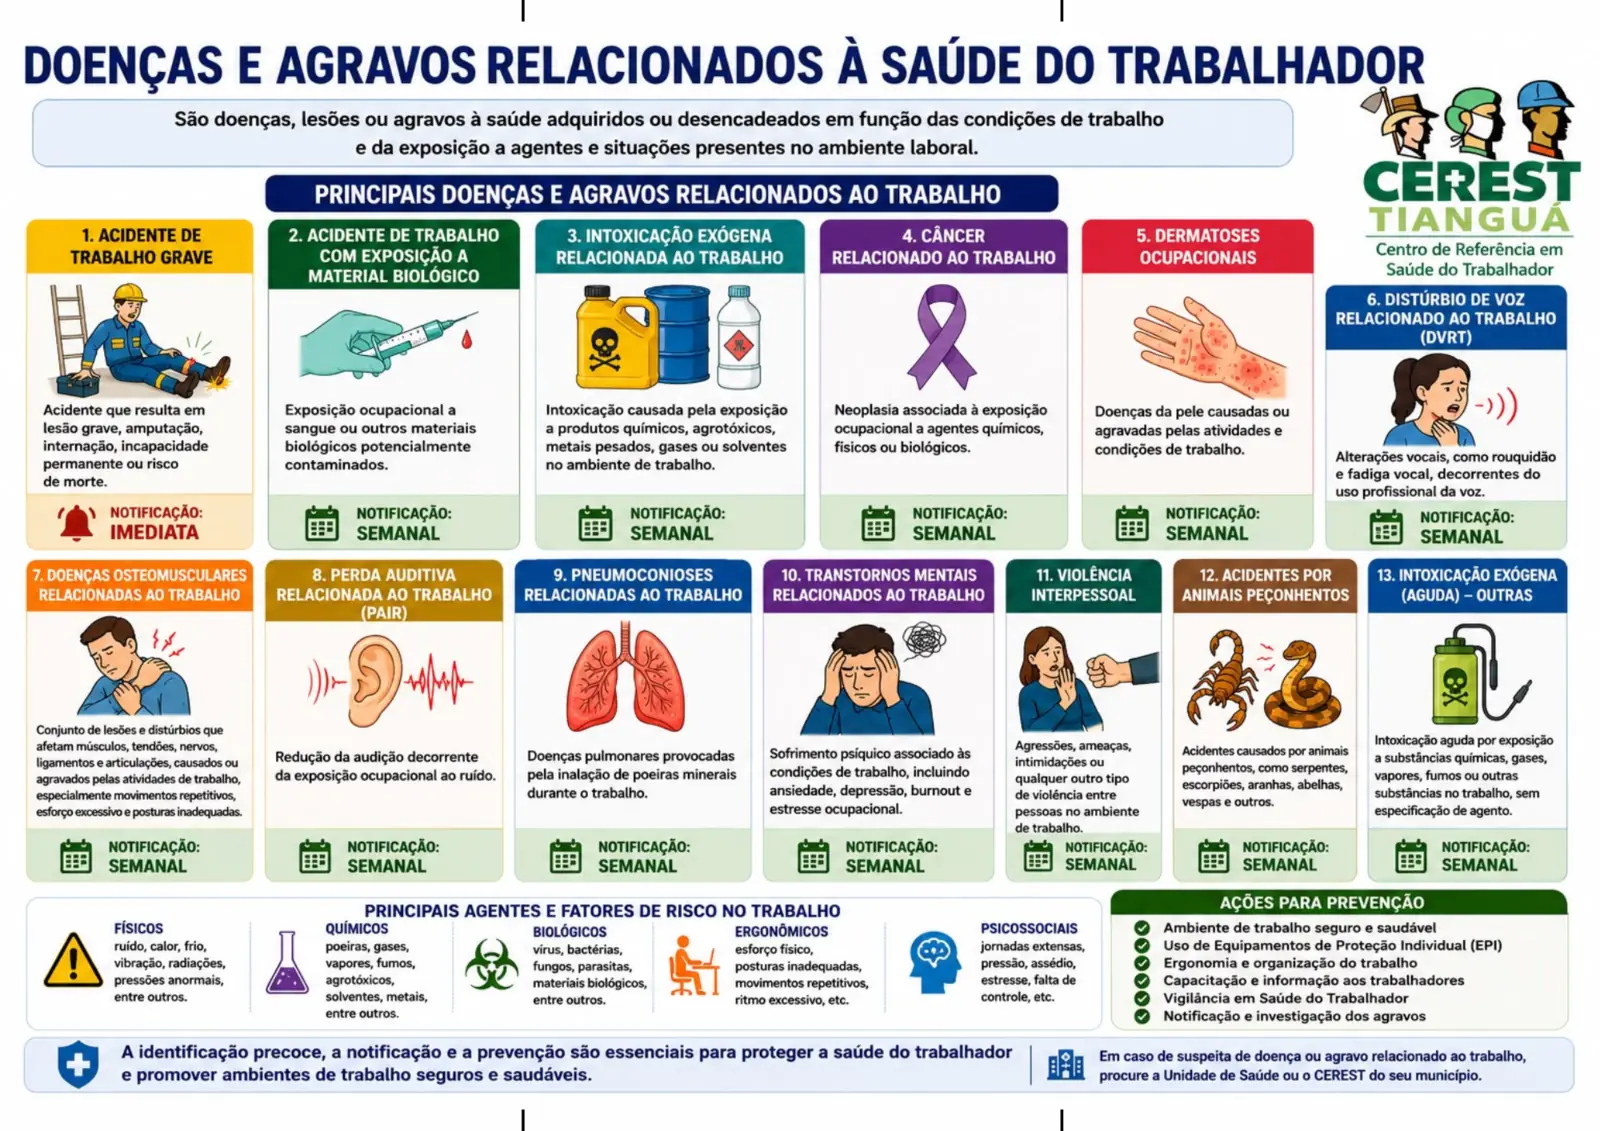
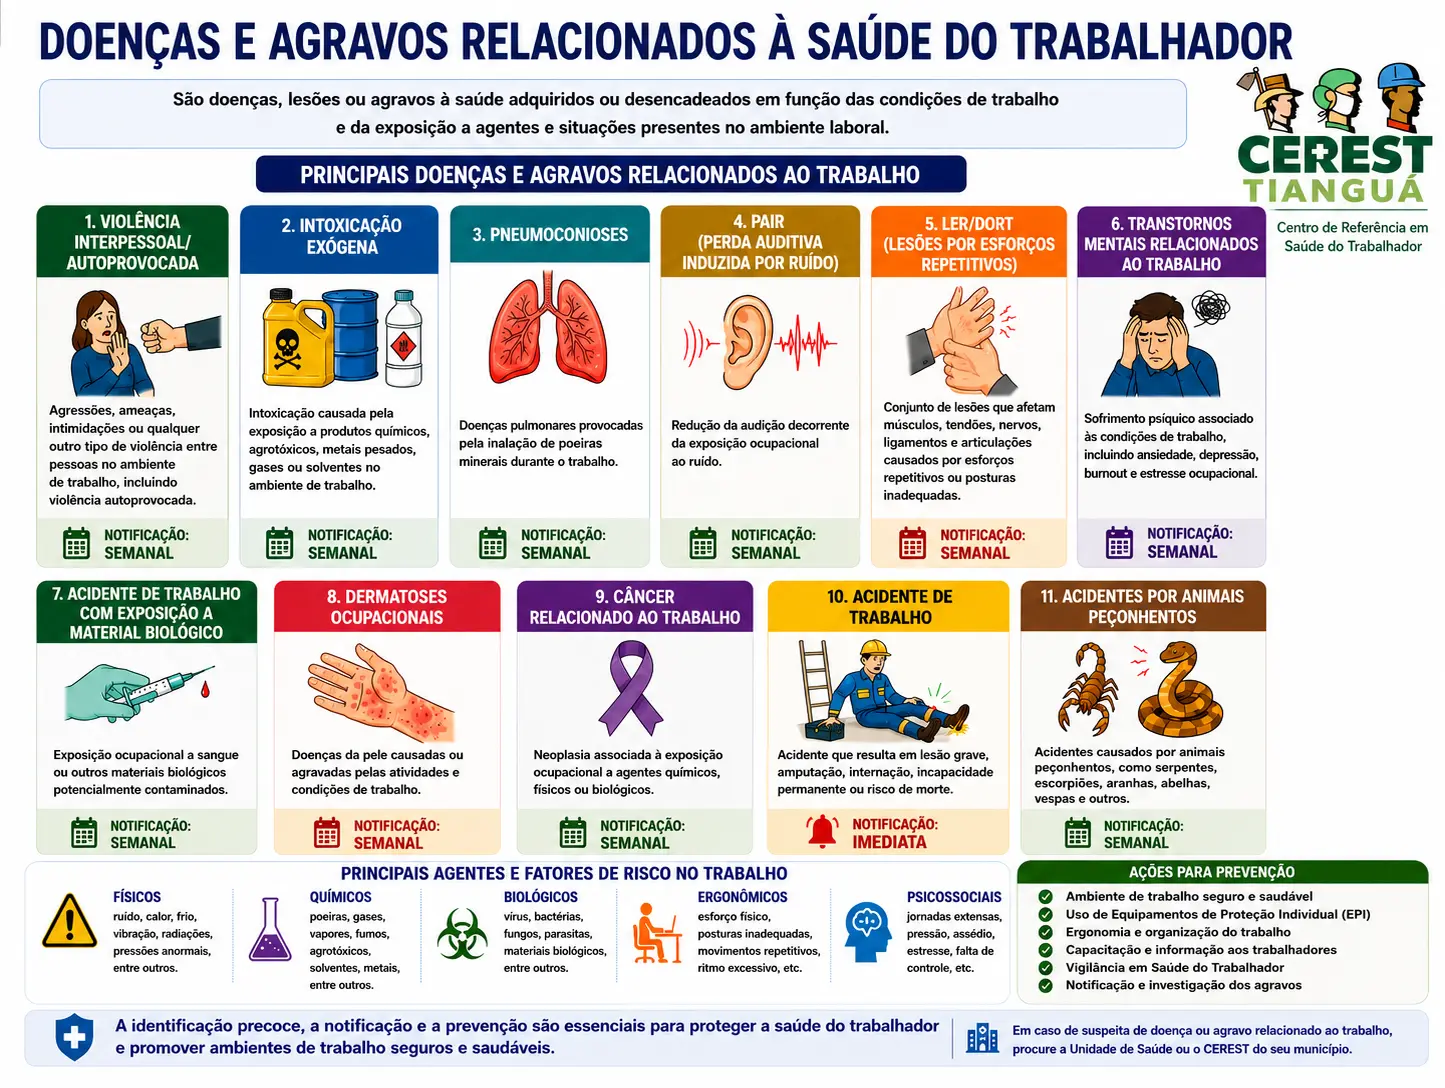
Atualiza folder de educação em saúde

diff --git a/app/educacao/doencas-agravos/page.tsx b/app/educacao/doencas-agravos/page.tsx
@@ -20,4 +20,4 @@ const agravos=[
 ];
 const prevencao=[["Ambiente de trabalho seguro e saudável","ambiente-seguro.webp"],["Uso de Equipamentos de Proteção Individual","epi.webp"],["Ergonomia e organização do trabalho","ergonomia.webp"],["Capacitação e informação aos trabalhadores","capacitacao.webp"],["Vigilância em Saúde do Trabalhador","visat.webp"],["Notificação e investigação dos agravos","notificacao-investigacao.webp"]];
 
-export default function DoencasAgravos(){return <><PageHero label="Educação em Saúde" title="Doenças e agravos relacionados ao trabalho" intro="São doenças, lesões ou agravos à saúde adquiridos ou desencadeados pelas condições de trabalho e pela exposição a agentes e situações presentes no ambiente laboral."/><section className="section wrap folder-intro"><div><span className="eyebrow">Material educativo</span><h2>Identificar cedo também é proteger</h2><p>A identificação precoce, a notificação e a prevenção são essenciais para proteger a saúde do trabalhador e promover ambientes de trabalho mais seguros e saudáveis.</p><p>Em caso de suspeita, procure a Unidade de Saúde ou o CEREST do seu município.</p><a className="button primary" href="/educacao/folder-doencas-agravos.webp" target="_blank" rel="noreferrer">Abrir folder completo</a></div><img src="/educacao/folder-doencas-agravos.webp" alt="Folder sobre doenças e agravos relacionados à saúde do trabalhador" width="1600" height="1131" decoding="async"/></section><section className="section soft"><div className="wrap"><span className="eyebrow">Principais agravos</span><h2>O que deve receber atenção</h2><div className="agravo-grid">{agravos.map(([n,title,text,notice,img])=><article key={n}><img src={`/educacao/${img}`} alt={`Ilustração educativa: `} width="1400" height="788" loading="lazy" decoding="async"/><div><small>{n}</small><h3>{title}</h3><p>{text}</p><strong>{notice}</strong></div></article>)}</div></div></section><section className="section wrap"><span className="eyebrow">Agentes e fatores de risco</span><h2>Riscos presentes no trabalho</h2><div className="risk-row">{[["Físicos","Ruído, calor, frio, vibração, radiações e pressões anormais."],["Químicos","Poeiras, gases, vapores, fumos, agrotóxicos, solventes e metais."],["Biológicos","Vírus, bactérias, fungos, parasitas e materiais biológicos."],["Ergonômicos","Esforço físico, posturas inadequadas, repetição e ritmo excessivo."],["Psicossociais","Jornadas extensas, pressão, assédio, estresse e falta de controle."]].map(([t,d])=><div key={t}><b>{t}</b><span>{d}</span></div>)}</div></section><section className="section education-gallery"><div className="wrap"><span className="eyebrow light">Ações de prevenção</span><h2>Informação para ambientes mais seguros</h2><div className="prevention-grid">{prevencao.map(([title,img])=><article key={title}><img src={`/educacao/${img}`} alt={title} width="1536" height="1024" loading="lazy" decoding="async"/><h3>{title}</h3></article>)}</div></div></section><section className="section wrap notify-callout"><div><span className="eyebrow">Notificação</span><h2>Notificar é um ato de responsabilidade</h2><p>Notificar, investigar e acompanhar os agravos permite reconhecer suas causas, orientar medidas de prevenção e evitar novos casos.</p></div><Link className="button primary" href="/contato">Falar com o CEREST</Link></section><ContactBand/></>}
+export default function DoencasAgravos(){return <><PageHero label="Educação em Saúde" title="Doenças e agravos relacionados ao trabalho" intro="São doenças, lesões ou agravos à saúde adquiridos ou desencadeados pelas condições de trabalho e pela exposição a agentes e situações presentes no ambiente laboral."/><section className="section wrap folder-intro"><div><span className="eyebrow">Material educativo</span><h2>Identificar cedo também é proteger</h2><p>A identificação precoce, a notificação e a prevenção são essenciais para proteger a saúde do trabalhador e promover ambientes de trabalho mais seguros e saudáveis.</p><p>Em caso de suspeita, procure a Unidade de Saúde ou o CEREST do seu município.</p><a className="button primary" href="/educacao/folder-doencas-agravos.webp" target="_blank" rel="noreferrer">Abrir folder completo</a></div><img src="/educacao/folder-doencas-agravos.webp" alt="Folder sobre doenças e agravos relacionados à saúde do trabalhador" width="1445" height="1088" decoding="async"/></section><section className="section soft"><div className="wrap"><span className="eyebrow">Principais agravos</span><h2>O que deve receber atenção</h2><div className="agravo-grid">{agravos.map(([n,title,text,notice,img])=><article key={n}><img src={`/educacao/${img}`} alt={`Ilustração educativa: `} width="1400" height="788" loading="lazy" decoding="async"/><div><small>{n}</small><h3>{title}</h3><p>{text}</p><strong>{notice}</strong></div></article>)}</div></div></section><section className="section wrap"><span className="eyebrow">Agentes e fatores de risco</span><h2>Riscos presentes no trabalho</h2><div className="risk-row">{[["Físicos","Ruído, calor, frio, vibração, radiações e pressões anormais."],["Químicos","Poeiras, gases, vapores, fumos, agrotóxicos, solventes e metais."],["Biológicos","Vírus, bactérias, fungos, parasitas e materiais biológicos."],["Ergonômicos","Esforço físico, posturas inadequadas, repetição e ritmo excessivo."],["Psicossociais","Jornadas extensas, pressão, assédio, estresse e falta de controle."]].map(([t,d])=><div key={t}><b>{t}</b><span>{d}</span></div>)}</div></section><section className="section education-gallery"><div className="wrap"><span className="eyebrow light">Ações de prevenção</span><h2>Informação para ambientes mais seguros</h2><div className="prevention-grid">{prevencao.map(([title,img])=><article key={title}><img src={`/educacao/${img}`} alt={title} width="1536" height="1024" loading="lazy" decoding="async"/><h3>{title}</h3></article>)}</div></div></section><section className="section wrap notify-callout"><div><span className="eyebrow">Notificação</span><h2>Notificar é um ato de responsabilidade</h2><p>Notificar, investigar e acompanhar os agravos permite reconhecer suas causas, orientar medidas de prevenção e evitar novos casos.</p></div><Link className="button primary" href="/contato">Falar com o CEREST</Link></section><ContactBand/></>}

diff --git a/app/educacao/page.tsx b/app/educacao/page.tsx
@@ -2,4 +2,4 @@ import Link from "next/link";
 import { ContactBand, PageHero } from "../components";
 export const metadata={title:"Educação em Saúde",description:"Materiais educativos do CEREST Tianguá sobre prevenção, doenças ocupacionais, acidentes, notificações e saúde no trabalho."};
 const risks=[["Silicose","Doença pulmonar causada pela inalação de poeira com sílica cristalina."],["PAIR","Perda auditiva gradual causada pela exposição contínua a ruído elevado."],["LER/DORT","Lesões que afetam músculos, tendões, articulações e nervos relacionadas ao trabalho."],["Material biológico","Exposição a sangue e fluidos potencialmente contaminados, especialmente por perfurocortantes."],["Animais peçonhentos","Prevenção e primeiros cuidados, com atenção especial ao trabalhador rural."],["Saúde mental","Transtornos mentais relacionados ao trabalho são agravos de notificação compulsória."],["Assédio moral","Condutas reiteradas que humilham, isolam ou ofendem a dignidade do trabalhador."],["Trabalho rural","Ergonomia, exposição a agrotóxicos e uso correto de equipamentos de proteção."]];
-export default function Educacao(){return <><PageHero label="Educação em Saúde" title="Conhecimento que protege" intro="Conteúdo para trabalhadores, profissionais de saúde, gestores e municípios promoverem ambientes de trabalho mais seguros e saudáveis."/><section className="section wrap"><span className="eyebrow">Novo material educativo</span><div className="education-feature"><div><h2>Doenças e agravos relacionados ao trabalho</h2><p>Conheça os principais agravos, os prazos de notificação, os agentes de risco e as ações de prevenção.</p><Link className="button primary" href="/educacao/doencas-agravos">Acessar conteúdo completo</Link></div><img src="/educacao/folder-doencas-agravos.webp" alt="Folder sobre doenças e agravos relacionados ao trabalho" width="1600" height="1131" loading="lazy" decoding="async"/></div></section><section className="section wrap"><span className="eyebrow">Agravos e doenças</span><h2>Principais riscos relacionados ao trabalho</h2><div className="info-grid">{risks.map(([t,d])=><article key={t}><h3>{t}</h3><p>{d}</p></article>)}</div></section><section className="section notification"><div className="wrap prose-grid"><div><span className="eyebrow light">Notificação compulsória</span><h2>Informação também é prevenção</h2></div><div><p>Acidentes graves ou fatais, exposição a material biológico, intoxicações, LER/DORT, pneumoconioses, PAIR, transtornos mentais e câncer relacionados ao trabalho estão entre os agravos que devem ser notificados.</p><p>O preenchimento correto aproxima os dados da realidade e orienta ações de proteção coletiva.</p></div></div></section><section className="section wrap"><span className="eyebrow">Ações educativas</span><h2>Capacitações e projetos</h2><div className="project-grid">{["Capacitação da rede SUS","Palestras para trabalhadores","Abril Verde e campanhas preventivas","Projeto Saúde na Roça","Projeto Voz da Sabedoria","Projeto Agricultor Saudável","Vida e Saúde na Estrada","Beleza com Saúde","Combate às Parasitoses em Garis","Mapeamento de Riscos dos ACEs","Territorialização da Ibiapaba"].map(x=><div key={x}>{x}</div>)}</div></section><section className="section soft"><div className="wrap"><span className="eyebrow">Materiais educativos</span><h2>Temas disponíveis</h2><div className="chips"><span>Saúde do trabalhador rural</span><span>Silicose</span><span>LER/DORT</span><span>PAIR</span><span>Animais peçonhentos</span><span>Higiene vocal</span></div></div></section><ContactBand/></>}
+export default function Educacao(){return <><PageHero label="Educação em Saúde" title="Conhecimento que protege" intro="Conteúdo para trabalhadores, profissionais de saúde, gestores e municípios promoverem ambientes de trabalho mais seguros e saudáveis."/><section className="section wrap"><span className="eyebrow">Novo material educativo</span><div className="education-feature"><div><h2>Doenças e agravos relacionados ao trabalho</h2><p>Conheça os principais agravos, os prazos de notificação, os agentes de risco e as ações de prevenção.</p><Link className="button primary" href="/educacao/doencas-agravos">Acessar conteúdo completo</Link></div><img src="/educacao/folder-doencas-agravos.webp" alt="Folder sobre doenças e agravos relacionados ao trabalho" width="1445" height="1088" loading="lazy" decoding="async"/></div></section><section className="section wrap"><span className="eyebrow">Agravos e doenças</span><h2>Principais riscos relacionados ao trabalho</h2><div className="info-grid">{risks.map(([t,d])=><article key={t}><h3>{t}</h3><p>{d}</p></article>)}</div></section><section className="section notification"><div className="wrap prose-grid"><div><span className="eyebrow light">Notificação compulsória</span><h2>Informação também é prevenção</h2></div><div><p>Acidentes graves ou fatais, exposição a material biológico, intoxicações, LER/DORT, pneumoconioses, PAIR, transtornos mentais e câncer relacionados ao trabalho estão entre os agravos que devem ser notificados.</p><p>O preenchimento correto aproxima os dados da realidade e orienta ações de proteção coletiva.</p></div></div></section><section className="section wrap"><span className="eyebrow">Ações educativas</span><h2>Capacitações e projetos</h2><div className="project-grid">{["Capacitação da rede SUS","Palestras para trabalhadores","Abril Verde e campanhas preventivas","Projeto Saúde na Roça","Projeto Voz da Sabedoria","Projeto Agricultor Saudável","Vida e Saúde na Estrada","Beleza com Saúde","Combate às Parasitoses em Garis","Mapeamento de Riscos dos ACEs","Territorialização da Ibiapaba"].map(x=><div key={x}>{x}</div>)}</div></section><section className="section soft"><div className="wrap"><span className="eyebrow">Materiais educativos</span><h2>Temas disponíveis</h2><div className="chips"><span>Saúde do trabalhador rural</span><span>Silicose</span><span>LER/DORT</span><span>PAIR</span><span>Animais peçonhentos</span><span>Higiene vocal</span></div></div></section><ContactBand/></>}
